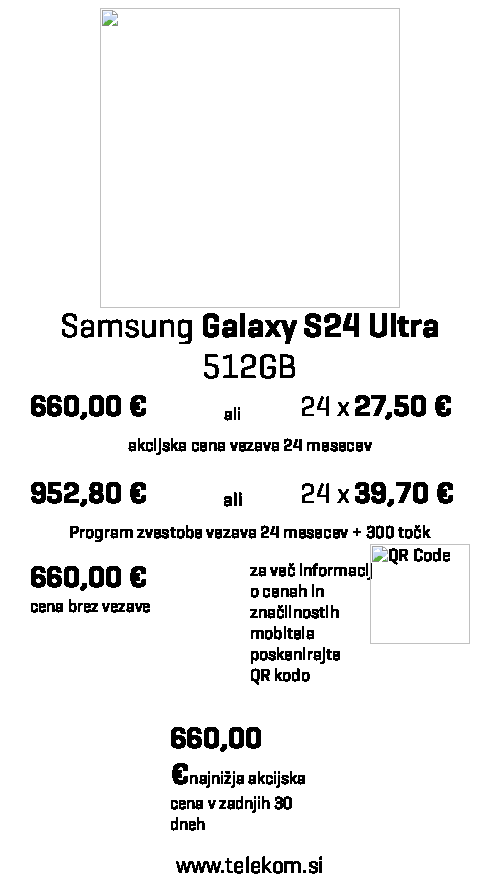
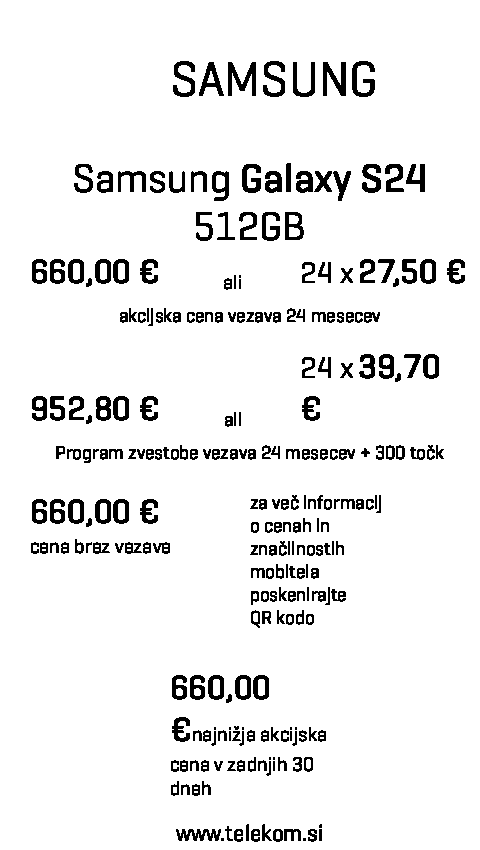
Fix

diff --git a/templates/telekom-arial.html b/templates/telekom-arial.html
@@ -4,24 +4,6 @@
     <meta name="viewport" content="width=device-width,initial-scale=1" />
     <title>Telekom device</title>
     <style>
-      @font-face {
-        font-family: "TS";
-        src: local("TS Regular");
-        font-weight: 400;
-      }
-
-      @font-face {
-        font-family: "TS";
-        src: local("TS Medium");
-        font-weight: 500;
-      }
-
-      @font-face {
-        font-family: "TS";
-        src: local("TS SemiBold");
-        font-weight: 600;
-      }
-
       html,
       body,
       * {
@@ -41,8 +23,8 @@
         /* arial narrow */
         /* font-family: "Arial Narrow", Arial, sans-serif; */
         font-family: "TS", sans-serif;
-        font-size: 20px;
-        font-weight: 400; /* Changed to Medium weight */
+        font-size: 17px;
+        font-weight: bold;
       }
 
       .content {
@@ -64,9 +46,8 @@
         align-items: center;
         height: 100px;
         width: 400px;
-        font-size: 40.5px;
+        font-size: 32px;
         text-align: center;
-        font-weight: 400; /* SemiBold for the name box */
       }
 
       .flex-container {
@@ -83,14 +64,14 @@
 
       .whole-price {
         font-family: "TS", sans-serif;
-        font-size: 34px;
-        font-weight: 500; /* SemiBold for prices */
+        font-size: 30px;
+        font-weight: bold;
       }
 
       .normal {
         font-family: "TS", sans-serif;
-        font-weight: 400; /* Regular weight */
-        font-size: 30px;
+        font-weight: normal;
+        font-size: 28px;
       }
 
       p {
@@ -123,7 +104,7 @@
         align-items: flex-start;
         text-align: start;
         height: 100px;
-        font-weight: 400; /* Regular weight for footer */
+        font-weight: 400;
         font-family: "TS", sans-serif;
         font-size: 23px;
       }
@@ -131,27 +112,24 @@
         height: 90px !important;
         padding-top: 25px;
       }
-      .text-info {
-        font-size: 19px;
-        font-weight: 400;
-      }
     </style>
   </head>
 
   <body>
     <div class="content">
       <div class="child header">
-        <div class="brand" style="height: 150px">
-          <!-- <img
+        <div class="brand" style="height: 300px">
+          <img
             src="https://example.com/phone-image.jpg"
             style="height: 300px; width: auto; object-fit: contain"
-          /> -->
-          <p style="font-size: 50px">SAMSUNG</p>
+          />
         </div>
       </div>
       <div class="child name-box">
         Samsung
-        <span style="font-weight: 500; width: 400px">Galaxy S24<br /></span>
+        <span style="font-weight: 600; width: 400px"
+          >Galaxy S24 Ultra<br
+        /></span>
         512GB
       </div>
       <div style="display: flex; flex-direction: column; height: 200px">
@@ -167,8 +145,8 @@
           </div>
         </div>
         <div
-          class="child flex-container text-info"
-          style="text-align: left; margin-bottom: 20px; font-weight: 400"
+          class="child flex-container"
+          style="text-align: left; margin-bottom: 20px; font-size: 17.5px"
         >
           akcijska cena vezava 24 mesecev
         </div>
@@ -187,21 +165,21 @@
           </div>
         </div>
         <div
-          class="child flex-container text-info"
-          style="text-align: left; font-weight: 400"
+          class="child flex-container"
+          style="text-align: left; font-size: 17.5px"
         >
           Program zvestobe vezava 24 mesecev + 300 točk
         </div>
       </div>
 
       <!-- regular price + QR -->
-      <div class="child flex-container" style="margin-top: 20px">
+      <div class="child flex-container">
         <div class="child" style="align-self: flex-start">
           <p><span class="whole-price">660,00 €</span><br />cena brez vezave</p>
         </div>
-        <div class="child qr-text text-info">
+        <div class="child qr-text">
           <div style="width: 105px; overflow: visible; word-wrap: break-word">
-            <p style="word-wrap: break-word; font-weight: 400">
+            <p style="word-wrap: break-word; font-size: 17.5px">
               za več informacij <br />
               o cenah in <br />
               značilnostih <br />
@@ -210,11 +188,11 @@
             </p>
           </div>
           <div style="align-self: flex-start">
-            <!-- <img
+            <img
               src="https://example.com/qr-code.png"
               alt="QR Code"
               style="width: 100px; height: 100px"
-            /> -->
+            />
           </div>
         </div>
       </div>
